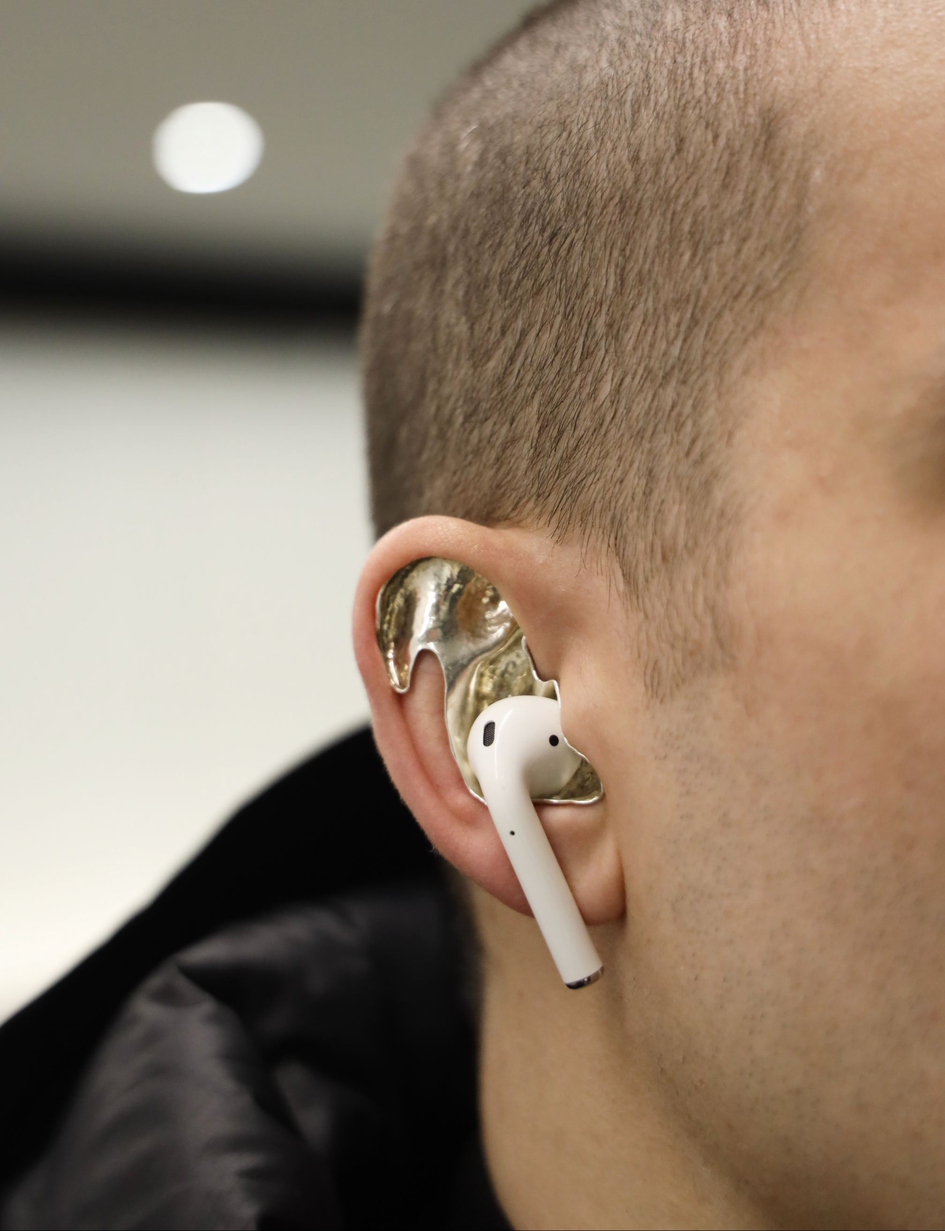
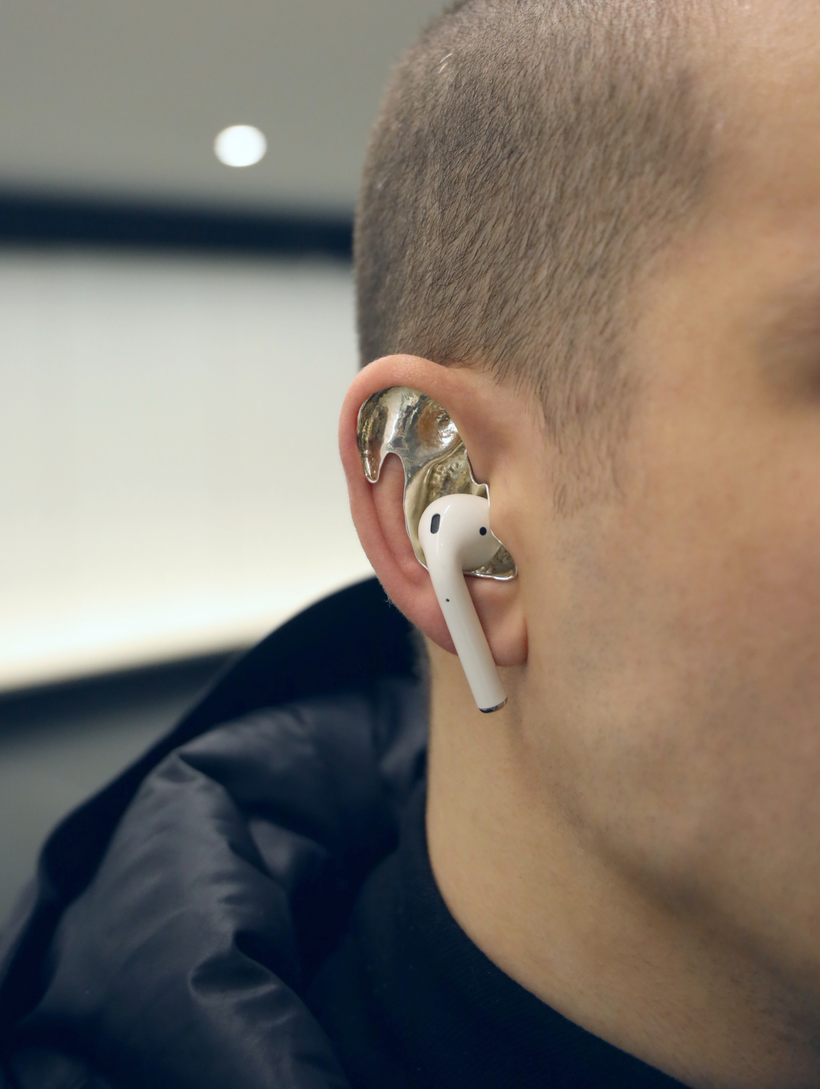
changing menu style

diff --git a/Earpiece.html b/Earpiece.html
@@ -1287,7 +1287,7 @@
   </a>
   <a href="./me.html" class=" N__link N__bottom_left">ME</a>
   <a href="./3DGallery.html" class=" N__link N__top_left ">3D Gallery</a>
-  <a href="./projects.html" class="N__link N__top_right ">PROJX</a>
+  <a href="./Earpiece.html" class="N__link N__top_right ">EARPIECE</a>
   <a href="./item1.html" class=" N__link N__bottom_right">VIDEO</a>
 
 
@@ -1318,7 +1318,7 @@
                           data-lazyload-placeholder></div>
                         <picture>
 
-                          <img data-src="image/projects/SilverWaterPool.png" alt="earpiece Web 00">
+                          <img data-src="image/projects/silverwaterpool2.png" alt="earpiece Web 00">
                         </picture>
 
 
@@ -1604,17 +1604,18 @@
                   <div class="m-text-body__content">
                     <div class="a-text-two-columns">
                       <div class="a-text-two-columns__column">
-                        <p>The structure of the Earpiece is entirely data driven
+                        <p>
+                          The structure of the Earpiece is entirely data driven
                           and is designed to exactly match the shape of the human ear structure. Meaning that the ear
-                          piece will create no discomfort will still allowing use of devices like earpods for example.
-                          It can also be worn during any physical activity.</p>
+                          piece will create no discomfort while still allowing the use of devices like earpods.
+                          It can be worn during any physical activity.
+                        </p>
                       </div>
                       <div class="a-text-two-columns__column">
-                        <p>Using spatial mapping algorithms, the ear surface is replicated into a virtual world. From
-                          there, the earpiece is virtually created with a powerful computer. Using powder metal fusion
+                        <p>
+                          Using spatial mapping algorithms, the ear surface is replicated into a virtual world. From
+                          there, powerful computer virtually create the earpiece. Using powder metal fusion
                           or other techniques, it is made into a metallic beautiful and unique wearable jewelry.
-
-
                         </p>
                       </div>
                     </div>

diff --git a/3DGallery.html b/3DGallery.html
@@ -76,7 +76,7 @@
   <a href="./me.html" class=" N__link N__bottom_left">ME</a> 
   <!-- <a href="/signup" data-navigo="true" class="js-route N__link N__top_left js-toplink">SIGN UP</a> -->
   <a href="./3DGallery.html"  class=" N__link N__top_left  ">3D Gallery</a>
-  <a href="./projects.html" class="N__link N__top_right ">PROJX</a>
+  <a href="./Earpiece.html" class="N__link N__top_right ">EARPIECE</a>
   <a href="./item1.html"  class=" N__link N__bottom_right">VIDEO</a>
   <!-- <a href="/signup" class="N__link N__bottom_center js-toggle-social">
     SIGN UP

diff --git a/index.html b/index.html
@@ -85,7 +85,7 @@
   <a href="./me.html" class=" N__link N__bottom_left">ME</a>
   <!-- <a href="/signup" data-navigo="true" class="js-route N__link N__top_left js-toplink">SIGN UP</a> -->
   <a href="./3DGallery.html"  class=" N__link N__top_left ">3D Gallery</a>
-  <a href="./projects.html" class="N__link N__top_right ">PROJX</a>
+  <a href="./Earpiece.html" class="N__link N__top_right ">EARPIECE</a>
   <a href="./item1.html" class=" N__link N__bottom_right">VIDEO</a>
   <!-- <a href="/signup" class="N__link N__bottom_center js-toggle-social">
     SIGN UP

diff --git a/item1.html b/item1.html
@@ -85,7 +85,7 @@
   <a href="./me.html" class=" N__link N__bottom_left">ME</a>
   <!-- <a href="/signup" data-navigo="true" class="js-route N__link N__top_left js-toplink">SIGN UP</a> -->
   <a href="./3DGallery.html"  class=" N__link N__top_left ">3D Gallery</a>
-  <a href="./projects.html" class="N__link N__top_right ">PROJX</a>
+  <a href="./Earpiece.html" class="N__link N__top_right ">EARPIECE</a>
   <a href="./video.html" class=" N__link N__bottom_right">VIDEO</a>
   <!-- <a href="/signup" class="N__link N__bottom_center js-toggle-social">
     SIGN UP

diff --git a/me.html b/me.html
@@ -84,7 +84,7 @@
   <a href="./me.html" class=" N__link N__bottom_left">ME</a>
   <!-- <a href="/signup" data-navigo="true" class="js-route N__link N__top_left js-toplink">SIGN UP</a> -->
   <a href="./3DGallery.html"  class=" N__link N__top_left ">3D Gallery</a>
-  <a href="./projects.html" class="N__link N__top_right ">PROJX</a>
+  <a href="./Earpiece.html" class="N__link N__top_right ">EARPIECE</a>
   <a href="./item1.html" class=" N__link N__bottom_right">VIDEO</a>
   <!-- <a href="/signup" class="N__link N__bottom_center js-toggle-social">
     SIGN UP

diff --git a/OrderEarpiece.html b/OrderEarpiece.html
@@ -1285,7 +1285,7 @@
   </a>
   <a href="./me.html" class=" N__link N__bottom_left">ME</a>
   <a href="./3DGallery.html" class=" N__link N__top_left ">3D Gallery</a>
-  <a href="./projects.html" class="N__link N__top_right ">PROJX</a>
+  <a href="./Earpiece.html" class="N__link N__top_right ">EARPIECE</a>
   <a href="./item1.html" class=" N__link N__bottom_right">VIDEO</a>
 
 
